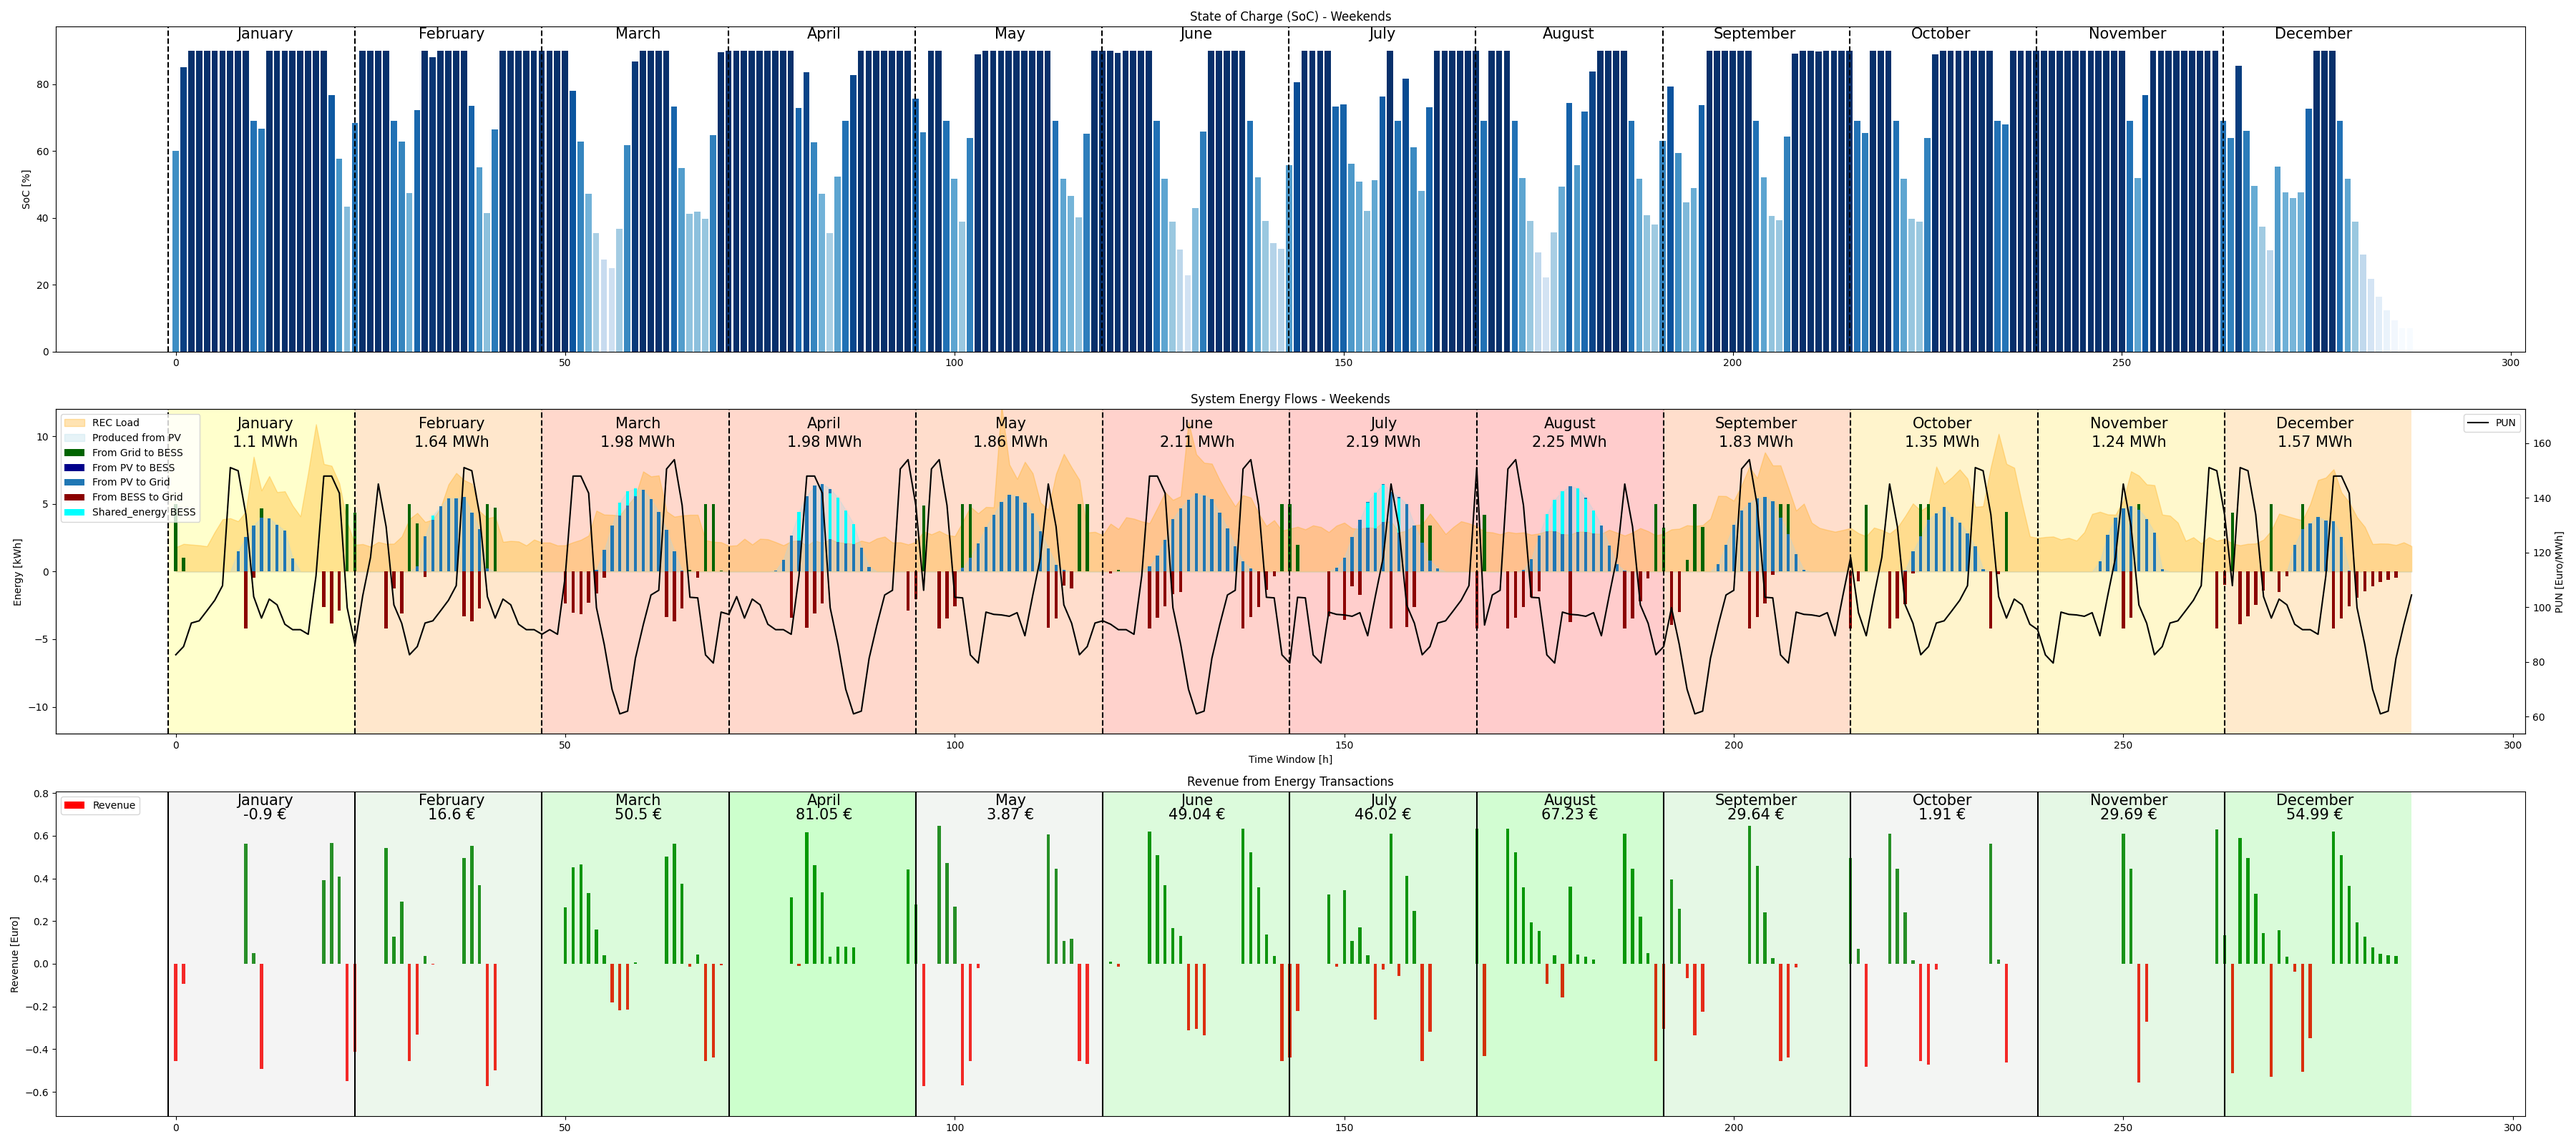
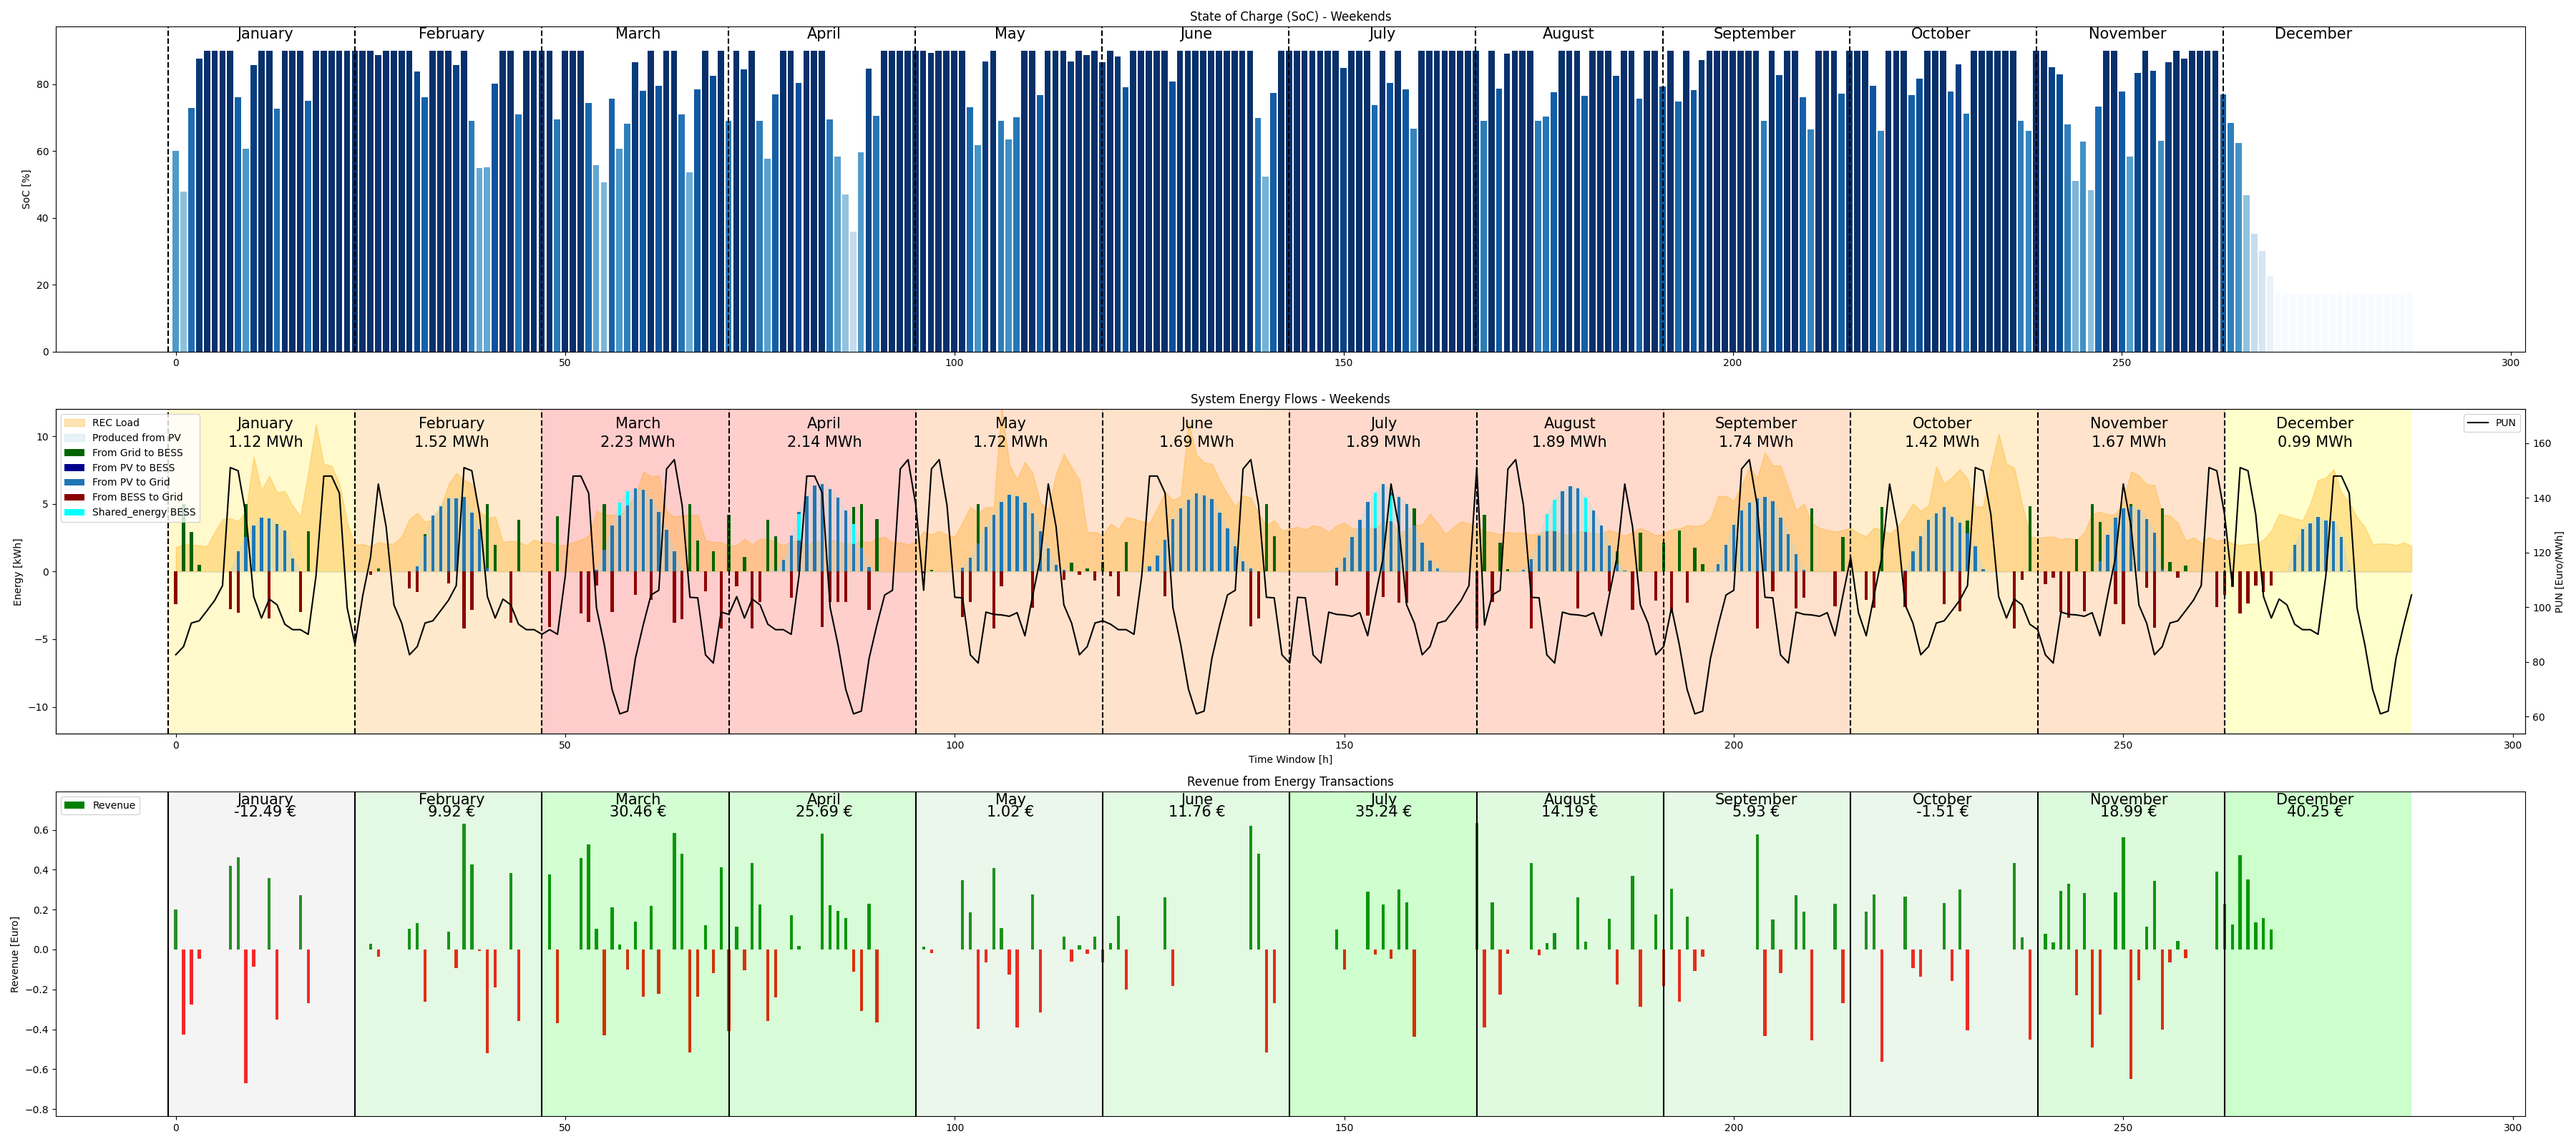
Fixing Hyperparamenters and main/objective functions

diff --git a/bess_optimization/short_simulation/objective_function_s.py b/bess_optimization/short_simulation/objective_function_s.py
@@ -105,7 +105,6 @@ class Revenues(ElementwiseProblem):
             self.discharged_energy_from_BESS[i] = np.maximum(np.maximum(self.discharged_energy_from_BESS[i],
                                                              -(self.soc[i]-soc_min)*size*power_energy),
                                                              -size*power_energy)  # TODO: REMOVE REDUNDANCY
-                                                                                  # ALREADY GOT IN BESS_MODEL
 
             # APPLY POD CONSTRAINTS TO ENERGY VECTORS
 
@@ -113,7 +112,7 @@ class Revenues(ElementwiseProblem):
             if self.charged_energy_from_grid_to_BESS[i] > POD_power:
 
                 # THEN LIMIT ALSO THE ENERGY CHARGED FROM GRID TO BESS (CONTROLLABLE)
-                self.charged_energy_from_grid_to_BESS[i] = np.maximum(POD_power, 0.0)
+                self.charged_energy_from_grid_to_BESS[i] = np.minimum(POD_power, self.charged_energy_from_grid_to_BESS[i])
 
             # IF POD POWER IS EXCEEDED WHILE DISCHARGING ENERGY TO THE GRID
             if np.abs(self.discharged_energy_from_BESS[i]) > POD_power:
@@ -122,22 +121,18 @@ class Revenues(ElementwiseProblem):
                 self.discharged_energy_from_BESS[i] = np.maximum(-POD_power, self.discharged_energy_from_BESS[i])
 
             # UPDATE AGAIN ALL THE ENERGY VECTOR BASED ON POD POWER CONSTRAINS THAT WERE APPLIED
-            self.charged_energy_from_grid_to_BESS[i] = np.maximum(self.charged_energy_to_BESS[i], 0.0)
 
-            # UPDATE THE ENERGY THAT THE BESS WANT TO CHARGED AS SUM OF THE ONE CHARGED FROM GRID TO BESS AND THE ENERGY
-            # TAKEN FROM PV TO THE BESS
+            # UPDATE THE ENERGY THAT THE BESS WANT TO BE CHARGED AS SUM OF THE ONE CHARGED FROM GRID TO BESS AND THE
+            # ENERGY TAKEN FROM PV TO THE BESS
             self.charged_energy_to_BESS[i] = self.charged_energy_from_grid_to_BESS[i]
 
             # UPDATE THE ENERGY DISCHARGED FROM PV DIRECTLY TO THE GRID REDUCING ITS ORIGINAL VALUE BY THE ONE THAT
-            # GOES FROM PV TO THE BESS AND FROM THE PV TO THE LOAD
-            self.discharged_from_pv[i] = np.minimum(-self.production[i], 0.0)
-
             self.discharged_energy_from_BESS[i] = np.maximum(np.maximum(self.discharged_energy_from_BESS[i],
                                                              -(self.soc[i]-soc_min)*size*power_energy),
                                                              -size*power_energy)
             # UPDATE SOC
 
-            # IF BESS I CHARGING
+            # IF BESS IS CHARGING
             if self.c_d_timeseries[i] >= 0:
                 self.soc[i + 1] = min(soc_max, self.soc[i] + (self.charged_energy_to_BESS[i]
                                                             ) / size)
@@ -172,21 +167,24 @@ class Revenues(ElementwiseProblem):
 
         # EVALUATE THE REVENUES OBTAINED FOR EACH TIMESTEP t
         revenue_column = np.array(np.abs(self.discharged_energy_from_BESS) * self.PUN_timeseries / 1000 -
-                                      np.abs(self.charged_energy_from_grid_to_BESS) * self.PUN_timeseries * 1.1 / 1000
-                                      #+ self.discharged_from_pv * self.PUN_timeseries / 1000
+                                      np.abs(self.charged_energy_from_grid_to_BESS) * self.PUN_timeseries / 1000
+                                      # + self.discharged_from_pv * self.PUN_timeseries / 1000
                                       + np.abs(self.shared_energy_BESS) * 120 / 1000
                                   )
 
+        #print(self.PUN_timeseries/1000)
+
         # EVALUATE REVENUES CONSIDERING TYPICAL DAYS FOR EACH MONTH
-        num_settimane = 12
-        ore_per_settimana = 24
-        revenues_settimanali = np.zeros(num_settimane)
+        # num_settimane = 12
+        # ore_per_settimana = 24
+        # revenues_settimanali = np.zeros(num_settimane)
+        #
+        # for i in range(num_settimane):
+        #     inizio = i * ore_per_settimana
+        #     fine = inizio + ore_per_settimana
+        #     revenues_settimanali[i] = np.sum(revenue_column[inizio:fine]) * 30
 
-        for i in range(num_settimane):
-            inizio = i * ore_per_settimana
-            fine = inizio + ore_per_settimana
-            revenues_settimanali[i] = np.sum(revenue_column[inizio:fine]) * 30
-
+        revenues_settimanali = np.sum(revenue_column)
         revenues_finali = revenues_settimanali
         somma_revenues_finali = np.sum(revenues_finali)
 

diff --git a/bess_optimization/short_simulation/main_s.py b/bess_optimization/short_simulation/main_s.py
@@ -167,10 +167,6 @@ class Main:
             # MEANING THAT THE BESS IS DISCHARGING, THIS VALUE IS = 0
             charged_energy_from_grid_to_BESS[i] = charged_energy[i]
 
-            # UPDATE THE ENERGY THAT THE BESS WANT TO CHARGED AS SUM OF THE ONE CHARGED FROM GRID TO BESS AND THE ENERGY
-            # TAKEN FROM PV TO THE BESS
-            charged_energy[i] = charged_energy_from_grid_to_BESS[i]
-
             # UPDATE THE ENERGY DISCHARGED FROM PV DIRECTLY TO THE GRID REDUCING ITS ORIGINAL VALUE BY THE ONE THAT
             # GOES FROM PV TO THE BESS AND FROM THE PV TO THE LOAD
             discharged_from_pv[i] = -production[i]  # NEGATIVE VALUE
@@ -185,19 +181,11 @@ class Main:
                 charged_energy_from_grid_to_BESS[i] = np.maximum(POD_power, 0.0)
 
             if np.abs(discharged_energy[i]) > POD_power:
-                discharged_energy[i] = np.minimum(-POD_power, discharged_energy[i])
+                discharged_energy[i] = np.maximum(-POD_power, discharged_energy[i])
 
-            charged_energy_from_grid_to_BESS[i] = charged_energy[i]
-
-            # UPDATE THE ENERGY THAT THE BESS WANT TO CHARGED AS SUM OF THE ONE CHARGED FROM GRID TO BESS AND THE ENERGY
-            # TAKEN FROM PV TO THE BESS
+            # UPDATE THE ENERGY THAT THE BESS WANT TO BE CHARGED AS SUM OF THE ONE CHARGED FROM GRID TO BESS AND THE
+            # ENERGY TAKEN FROM PV TO THE BESS
             charged_energy[i] = charged_energy_from_grid_to_BESS[i]
-
-            # UPDATE THE ENERGY DISCHARGED FROM PV DIRECTLY TO THE GRID REDUCING ITS ORIGINAL VALUE BY THE ONE THAT
-            # GOES FROM PV TO THE BESS AND FROM THE PV TO THE LOAD
-            discharged_from_pv[i] = np.minimum(-production[i], 0.0)
-            discharged_energy[i] = np.maximum(np.maximum(discharged_energy[i], -(soc[i] - soc_min) * size *
-                                                         power_energy), -size * power_energy)
 
             # UPDATE SOC
             # IF BESS I CHARGING
@@ -241,7 +229,7 @@ class Main:
 
         # EVALUATE REVENUES
         rev = np.array(np.abs(discharged_energy) * PUN_ts / 1000
-                       - np.abs(taken_from_grid * PUN_ts * 1.1 / 1000)
+                       - np.abs(taken_from_grid * PUN_ts  / 1000)
                        + np.array(shared_energy_bess) * 120 / 1000
                        )
 

diff --git a/bess_optimization/short_simulation/configuration_s.py b/bess_optimization/short_simulation/configuration_s.py
@@ -18,7 +18,8 @@ from pymoo.termination.xtol import DesignSpaceTermination
 from pymoo.algorithms.moo.nsga3 import NSGA3
 from pymoo.operators.crossover.sbx import SBX
 from pymoo.operators.mutation.pm import PM
-from pymoo.operators.sampling.rnd import FloatRandomSampling
+from pymoo.operators.sampling.rnd import FloatRandomSampling, PermutationRandomSampling
+from pymoo.operators.sampling.lhs import LatinHypercubeSampling
 from pymoo.operators.selection.tournament import TournamentSelection, compare
 from pymoo.util.ref_dirs import get_reference_directions
 from pymoo.core.termination import TerminateIfAny
@@ -95,7 +96,7 @@ xu = [max_charge] * time_window
 n_gen = 1000
 
 # 8-bis) DEFINE TOLERANCE AS THE ALGORITHM INTERRUPTION CRITERIA
-tolerance = 0.5
+tolerance = 0.3
 period = 20
 
 # number of iteration in which tolerance is evaluated
@@ -127,7 +128,7 @@ algorithm = NSGA3(
     # sampling: This parameter specifies the method used to initialize the population. FloatRandomSampling
     # generates random floating-point values for the initial solutions, providing a diverse starting point.
 
-    sampling=FloatRandomSampling(),
+    sampling=LatinHypercubeSampling(), # this seems to be slightly better than other sampling methods
 
     # selection: This defines the selection mechanism used to choose parents for reproduction.
     # TournamentSelection selects individuals based on a comparison function.
@@ -144,7 +145,7 @@ algorithm = NSGA3(
     # The probability of crossover being applied. A probability of 1.0 means crossover is always
     # applied.
 
-    crossover=SBX(eta=30, prob=1.0),
+    crossover=SBX(eta=3, prob=1.0),
 
     # pymoo.operators.crossover.expx.ExponentialCrossover(prob_exp=0.95),
 
@@ -154,13 +155,11 @@ algorithm = NSGA3(
     # The distribution index for PM. Similar to SBX, a higher value of eta results in smaller mutations,
     # while a lower value results in larger mutations.
 
-    mutation=PM(eta=20, prob=0.9),
-
-    #InversionMutation(prob=0.3),
+    mutation=PM(eta=20, prob=0.5),
 
     eliminate_duplicates=True,
 
-    n_offsprings=round(pop_size/2)
+    # n_offsprings=round(pop_size/2)
 
 )
 

diff --git a/bess_optimization/short_simulation/Plots_s.py b/bess_optimization/short_simulation/Plots_s.py
@@ -444,7 +444,7 @@ class EnergyPlots:
 
         # EVALUATE REVENUES
         rev = np.array( np.abs(discharged_energy) * pun_values / 1000
-               - np.abs(taken_from_grid * pun_values * 1.1 / 1000)
+               - np.abs(taken_from_grid * pun_values  / 1000)
                # + np.abs(discharged_from_pv) * pun_values / 1000
                + np.abs(shared_energy_bess) * 120 / 1000
                 )
